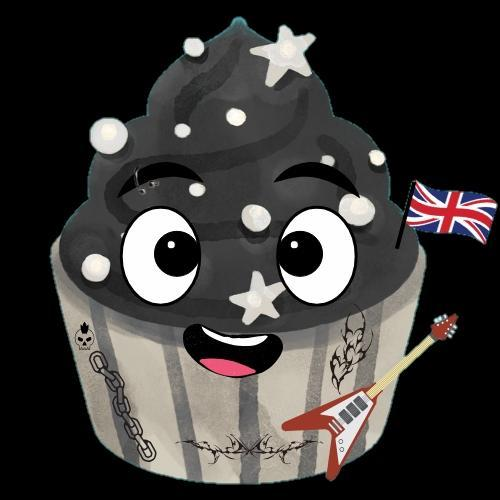
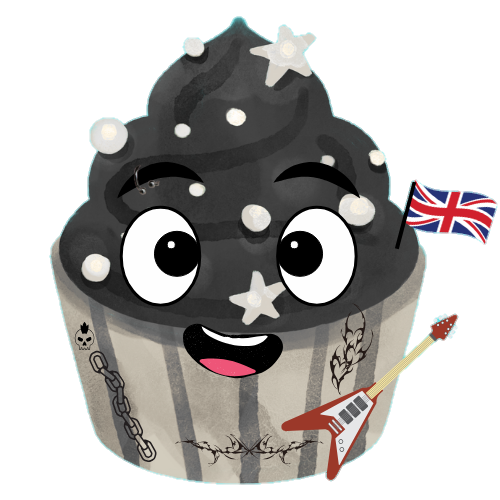
mudando imagem para png

diff --git a/access-control-cp/src/routes/Logado/index.tsx b/access-control-cp/src/routes/Logado/index.tsx
@@ -15,7 +15,7 @@ export default function Logado() {
         <p> Continuo espalhando minha doçura por aí, tem uma música que combina demais comigo: “Sugar Talking” da Sabrina Carpenter!  
         Sempre que escuto, sinto minhas notas dançarem e até meus doces preferidos começam a cantar junto! HAHAHA  
         Espero que essa música adoçe também o seu dia e faça você sorrir tanto quanto eu quando canto por aí!</p>
-        <h2>Sugar Talking- Sabrina Carpinter</h2> 
+        <h2>Sugar Talking- Sabrina Carpenter</h2> 
         <p>Ooh-ooh, ooh-ooh-ooh
           Ooh-ooh-ooh-ooh
 
